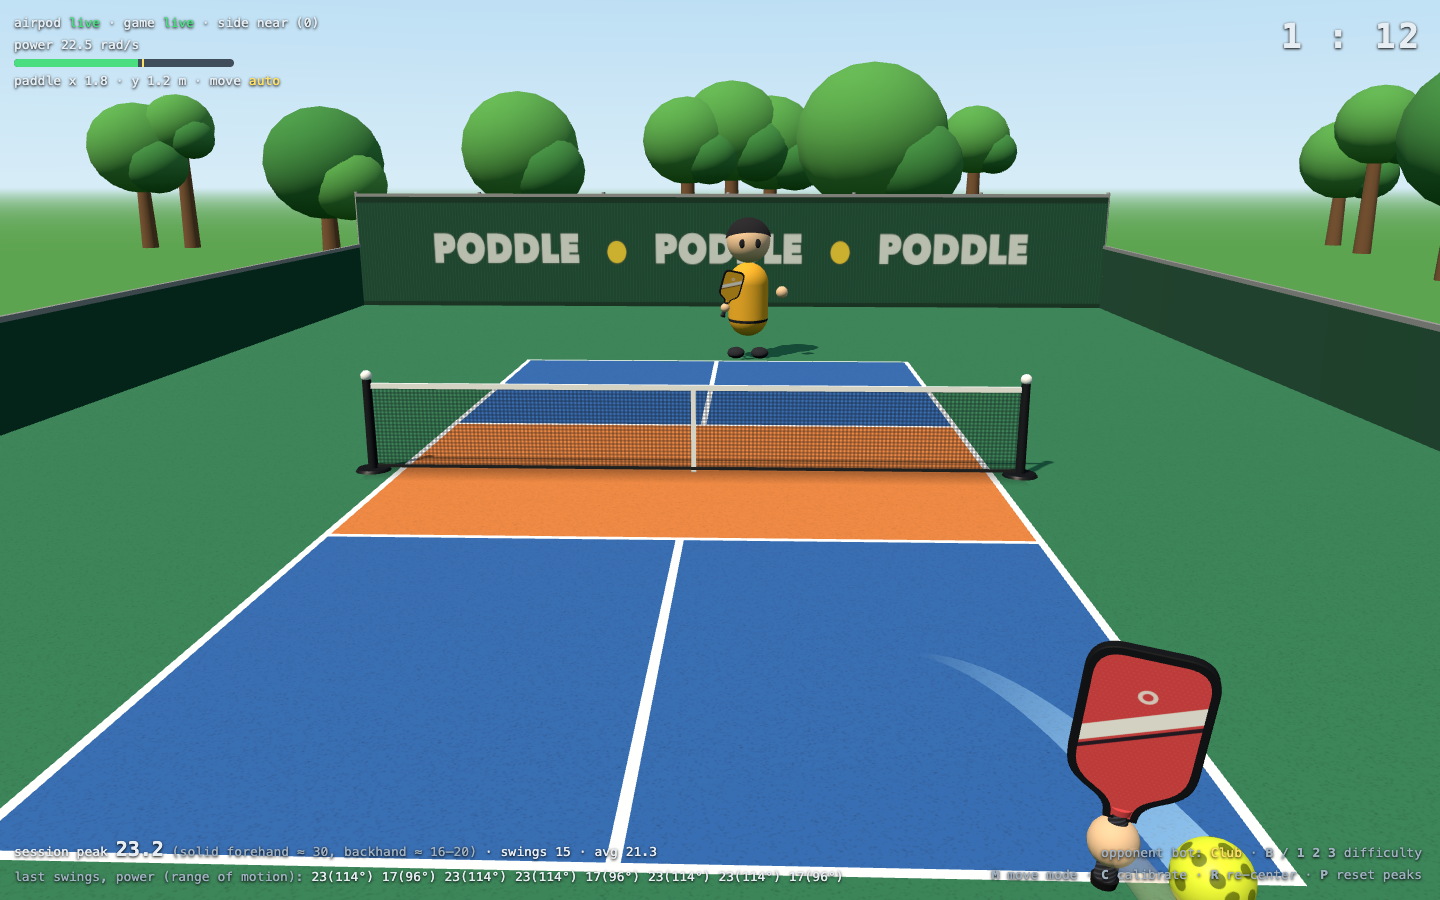
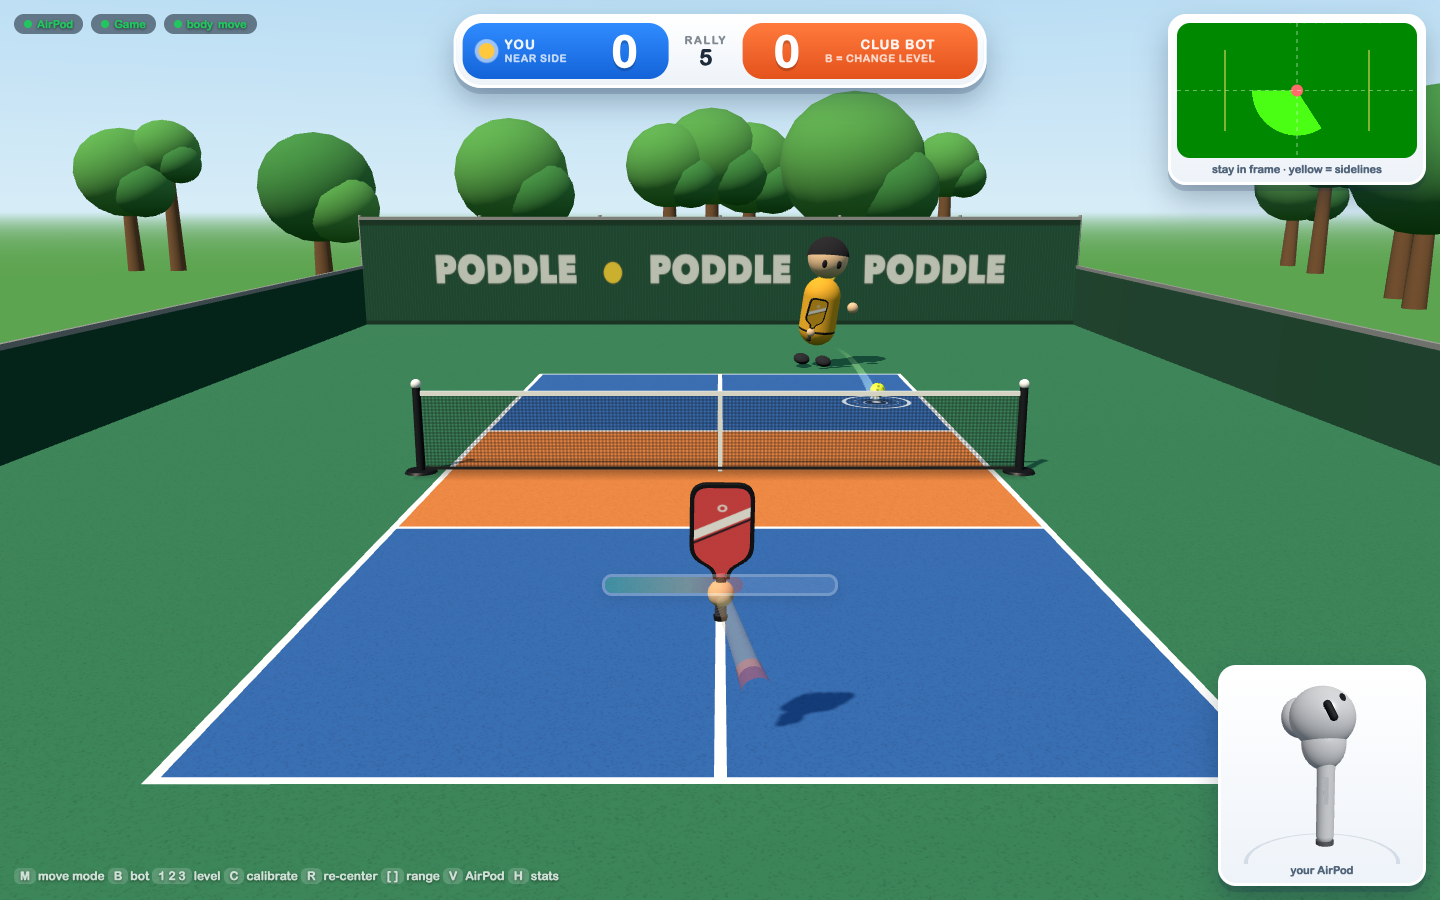
Swing-to-serve, cleaner backhands (compressed swing arc, easier registration)

diff --git a/server/game.js b/server/game.js
@@ -24,7 +24,7 @@ const lerp = (a, b, t) => a + (b - a) * t;
 const num = (v, d) => (Number.isFinite(+v) ? +v : d);          // untrusted input -> finite number
 
 const players = [];                       // { ws|null(bot), side, x, y, z, zT, q, swing, lunge, contact }
-const ball = { p: [0, 1, 0], v: [0, 0, 0], live: false, lastHit: 0, bounces: 0 };
+const ball = { serving: null, serveBy: 0, p: [0, 1, 0], v: [0, 0, 0], live: false, lastHit: 0, bounces: 0 };
 const score = [0, 0];
 let now = 0, server = 0, serveAt = Infinity;      // sim clock; who serves next; when (sim time)
 
@@ -80,10 +80,16 @@ function planFootwork(side) {
 }
 
 function reset(by) {
-  const s = sgn(by);
+  const s = sgn(by), pl = bySide(by);
+  for (const p of players) p.swing = p.lunge = null;
+  ball.live = true; ball.bounces = 0;
+  if (SWING_SERVE && pl) {                                     // the ball floats in front of the server until they swing at it
+    ball.serving = by; ball.lastHit = 1 - by; ball.v = [0, 0, 0];
+    ball.serveBy = now + (pl.bot ? 1.1 : 9);                   // bots serve after a beat; a human who never swings gets served for
+    broadcast({ type: 'serve', by, wait: true });
+    return;
+  }
   ball.p = [(Math.random() - 0.5) * 2, 1.1, s * HIT_LINE];
-  ball.live = true;
-  for (const pl of players) pl.swing = pl.lunge = null;
   launch(by, 0.15, (Math.random() - 0.5) * 1.2, 0.25);
   broadcast({ type: 'serve', by });
 }
@@ -125,6 +131,7 @@ const BOTS = [
 ];
 let botLevel = 1, botJoinAt = Infinity;
 const AUTOBOT = process.env.AUTOBOT !== '0';
+const SWING_SERVE = process.env.SWING_SERVE != null ? process.env.SWING_SERVE !== '0' : AUTOBOT;   // off in tests
 const WIN_AT = process.env.WIN_AT != null ? +process.env.WIN_AT : (AUTOBOT ? 11 : 0);   // first to 11, win by 2 (off in tests)
 let newMatchAt = Infinity;            // tests turn off auto-join and seat takeover
 const humans = () => players.filter(p => !p.bot);
@@ -244,7 +251,18 @@ function step() {
     pl.z += clamp(zT - pl.z, -FOOT_SPEED * DT, FOOT_SPEED * DT);
   }
 
-  if (ball.live) {
+  if (ball.live && ball.serving != null) {
+    const pl = bySide(ball.serving);
+    if (!pl || ball.lastHit === ball.serving) ball.serving = null;            // it's been struck (or the server left)
+    else {
+      const s = sgn(pl.side);
+      ball.p = [pl.x + 0.05 * s, clamp(pl.y + 0.1, 0.8, 1.5) + Math.sin(now * 3) * 0.04, pl.z - s * 0.55]; ball.v = [0, 0, 0];
+      if (now >= ball.serveBy) {
+        ball.serving = null; broadcast({ type: 'swung', side: pl.side }); broadcast({ type: 'hit', side: pl.side, n: 0.3, p: ball.p });
+        launch(pl.side, pl.bot ? 0.2 + Math.random() * 0.3 : 0.25, (Math.random() - 0.5) * 1.4, 0.2);
+      }
+    }
+  } else if (ball.live) {
     ball.v[1] -= G * DT;
     for (let i = 0; i < 3; i++) ball.p[i] += ball.v[i] * DT;
   }
@@ -266,7 +284,7 @@ function step() {
     if (mine && z.depth && Math.abs(z.ahead) < sw.best) { sw.best = Math.abs(z.ahead); sw.why = aside(z); }
     if (now > sw.until) {
       pl.swing = null;
-      if (mine) send(pl, { type: 'whiff', why: whyMissed(sw, z) });
+      if (mine && ball.serving == null) send(pl, { type: 'whiff', why: whyMissed(sw, z) });
     }
   }
 
@@ -283,7 +301,7 @@ function step() {
 
   const paddles = [null, null];
   for (const pl of players) paddles[pl.side] = { x: pl.x, y: pl.y, z: pl.z, q: pl.q, bot: pl.bot };
-  broadcast({ type: 'state', p: ball.p, v: ball.v, live: ball.live, score, paddles });
+  broadcast({ type: 'state', p: ball.p, v: ball.v, live: ball.live, serving: ball.serving, score, paddles });
 }
 
 // fixed 60Hz steps against the real clock (setInterval alone runs ~2% slow and drifts). One state packet per step.

diff --git a/web/motion.js b/web/motion.js
@@ -18,9 +18,9 @@ export const DEFAULTS = {
   WINDUP_MAX: 0, WINDUP_SPEED: 5, STILL_RATE: 1.2, STILL_MAX: 0.3,   // ...or further, to before a slow backswing
   FREEZE_BLEND: 0.08,                       // ease the arm reference into the rolled-back state, s
   RECOVER_TAU: 0.3, RECOVER_RAMP: 0.5,      // after a lock, let the base go softly
-  TRIGGER: 13, PEAK_WINDOW: 0.16, REARM: 3,
-  ARC_TAU: 0.35, ARC_LO: 6, ARC_HI: 14,     // swing arc: reference lag (s), and the rotation rates (rad/s) over which it fades in
-  ROM_IDLE: 4, ROM_MIN: 30, ROM_FULL: 55, ROM_T_MIN: 0.06, ROM_T_FULL: 0.1,   // deg swept before the peak: below MIN a swing scores nothing, at FULL it scores its whole peak rate  // swing detection, rad/s and s
+  TRIGGER: 11, PEAK_WINDOW: 0.16, REARM: 3,
+  ARC_TAU: 0.35, ARC_LO: 6, ARC_HI: 14, ARC_MAX: 65,     // swing arc: reference lag (s), and the rotation rates (rad/s) over which it fades in
+  ROM_IDLE: 4, ROM_MIN: 25, ROM_FULL: 45, ROM_T_MIN: 0.04, ROM_T_FULL: 0.07,   // deg swept before the peak: below MIN a swing scores nothing, at FULL it scores its whole peak rate  // swing detection, rad/s and s
   LOB_GAIN: 0.8,
   ARM: [0.10, -0.12, -0.70],                // virtual forearm, player frame (x right, y up, z toward player)
   REF_TAU: 0.08,                            // arm reference follows the hand: 2 cascaded stages of this
@@ -374,9 +374,15 @@ export class MotionModel {
       P = qslerp(a.P, b.P, u); ref = qslerp(a.ref, b.ref, u);
       S = { x: lerp(a.x, b.x, u), y: lerp(a.y, b.y, u) }; punch = add(mul(a.pu, 1 - u), mul(b.pu, u)); w = lerp(a.w, b.w, u);
     } else { P = this._Pat(ts); S = this._xyAt(ts); punch = this._punchAt(ts); ref = this._refAt(ts); }
-    const offset = mul(add(sub(qrot(P, c.ARM), qrot(ref, c.ARM)), punch), w);
+    // Arc from a COMPRESSED rotation: a real hand stays in front of the body, so however far the bud turns (a backhand
+    // turns it 120deg+ across you, plus a roll) the arc angle saturates at ARC_MAX and the paddle never comes back at the camera.
+    const rel = qmul(P, qconj(ref)), ang = qangle(rel), lim = c.ARC_MAX * DEG;
+    const relC = ang > 1e-6 ? qslerp([0, 0, 0, 1], rel[3] < 0 ? mul4(rel, -1) : rel, lim * Math.tanh(ang / lim) / ang) : rel;
+    const o = mul(add(sub(qrot(qmul(relC, ref), c.ARM), qrot(ref, c.ARM)), punch), w);
+    const offset = [clamp(o[0], -0.75, 0.75), clamp(o[1], -0.5, 0.6), clamp(o[2], -0.6, 0.2)];                        // +z is toward the camera
     return { calibrated: true, x: S.x, y: S.y, P, offset, power: this.sw ? this.sw.peak : 0, swinging: !!this.sw, rate: this.last.rate, punch, locked: !!this.lock };
   }
 }
 
+const mul4 = (q, k) => [q[0] * k, q[1] * k, q[2] * k, q[3] * k];
 function dot4(a, b) { return a[0] * b[0] + a[1] * b[1] + a[2] * b[2] + a[3] * b[3]; }

diff --git a/web/main.js b/web/main.js
@@ -152,7 +152,7 @@ const game = connect(HOST === 'localhost' ? GAME : [GAME, `ws://localhost:${qs.g
   }
   if (m.type === 'full') { say('game is full (2 players already connected)', '#ff6b6b', 4000); return; }
   if (m.type === 'hit') { stats.hits++; if (m.side === side) stats.myHits++; rally++; $('rally').textContent = rally; pop($('rally')); hitFx(m.side === side, m.n); }
-  if (m.type === 'serve') { rally = 0; $('rally').textContent = 0; $('sv-me').classList.toggle('on', m.by === side); $('sv-them').classList.toggle('on', m.by !== side); }
+  if (m.type === 'serve') { if (m.wait) say(m.by === side ? 'Your serve — swing to hit it!' : 'Their serve', null, m.by === side ? 2600 : 1200); rally = 0; $('rally').textContent = 0; $('sv-me').classList.toggle('on', m.by === side); $('sv-them').classList.toggle('on', m.by !== side); }
   if (m.type === 'match') { const won = m.winner === side; banner(won ? 'YOU WIN!' : 'GAME OVER', `${m.score[side]} – ${m.score[1 - side]} · new game in a moment`, won ? 'linear-gradient(#2f8cff,#1463d8)' : 'linear-gradient(#ff7a3d,#e4521b)', true); if (won) { confetti(['#2f8cff', '#ffc83d', '#22c55e', '#ffffff'], 120); setTimeout(() => confetti(['#2f8cff', '#ffc83d', '#ffffff'], 80), 900); } return; }
   if (m.type === 'whiff') { stats.whiffs++; say(WHIFF[m.why] || 'missed', '#ff6b6b'); }
   if (m.type === 'point' && !m.final) { const won = m.winner === side;
